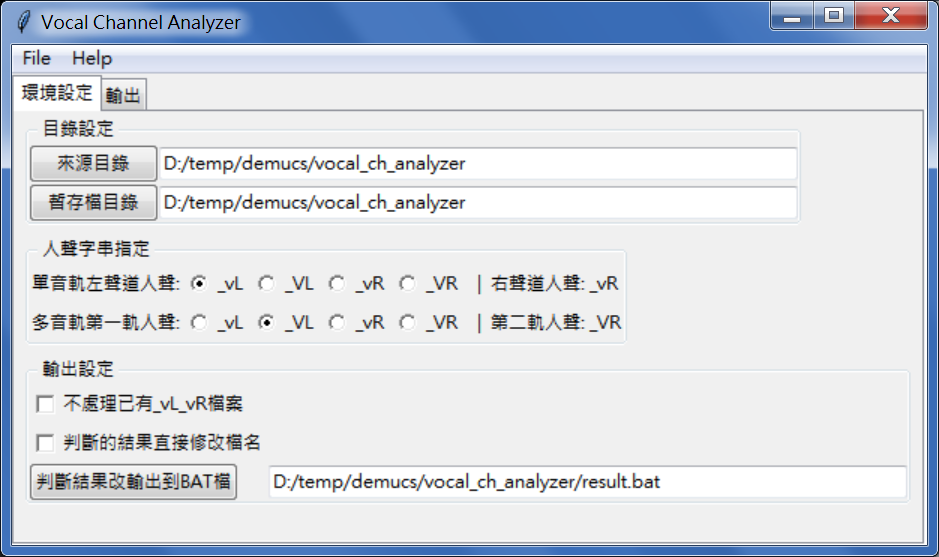
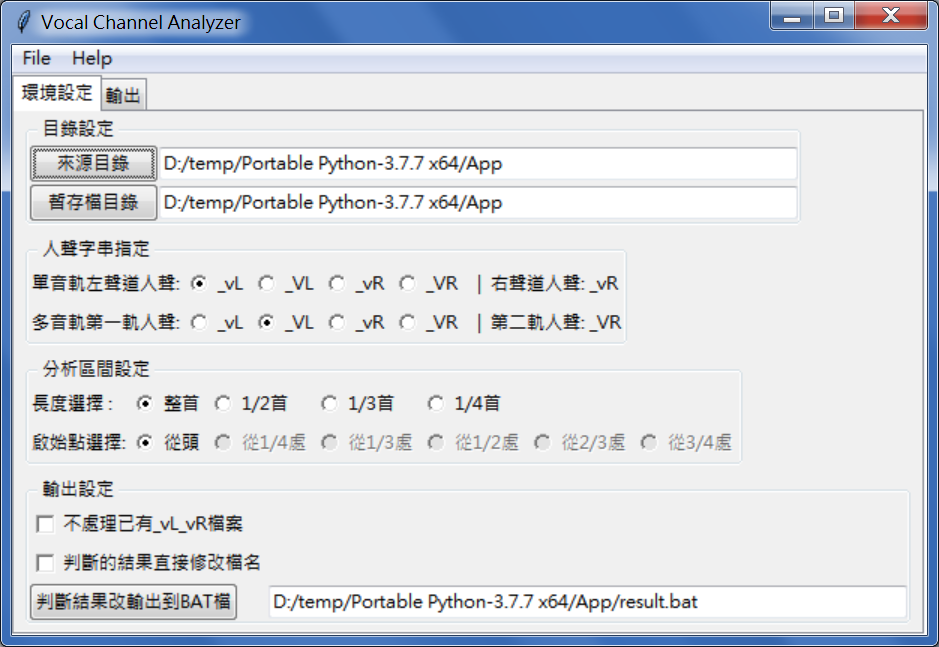
Add files via upload

Changed region(s): [[0.0, 0.0, 1.0, 0.3968], [0.0, 0.4273, 1.0, 1.0], [0.9883, 0.2747, 1.0, 0.3052]]

diff --git a/analyzer_core.py b/analyzer_core.py
@@ -3,6 +3,8 @@
 # This module provide the analysis core of the voice channel
 # 
 # version : 1.0.0  2020/09/15
+# version : 1.1.0  2002/09/16
+#           add support for audio clipping
 
 import os
 import subprocess
@@ -16,85 +18,57 @@ mediainfocmd="mediainfo.exe"
 spleetercmd="python\python.exe -m spleeter separate "
 
 def read_mediainfo(filename):
-    cmdlist=mediainfocmd+' "'+filename+'"'
+    cmdlist=mediainfocmd+' --output=General;%AudioCount% "'+filename+'"'
     try:
         result = subprocess.check_output(cmdlist, shell=True, stderr=subprocess.STDOUT)
     except subprocess.CalledProcessError as e:
-        return [0, "", ""]
+        return [0, 0]
     
-    result=str(result).replace('\\n','\n').replace('\\r','\r')
-    
-    s_pos = str(result).find('\r\nVideo')
-    n_pos = str(result).find('Format', s_pos)
-    m_pos = str(result).find(':', n_pos)
-    p_pos = str(result).find('\n', m_pos)
+    result=str(result,'utf-8').strip()
     try:
-        vid_format = str(result)[m_pos+1:p_pos].strip()
+        audio_no = int(result)
     except:
-        return[0, '', 0, '', 0]     # error condition
+        return[0, 0]
     
-    if vid_format=='MPEG Video':
-        n_pos = str(result).find('Format version', s_pos)
-        m_pos = str(result).find(':', n_pos)
-        p_pos = str(result).find('\n', m_pos)
-        ver_format = str(result)[m_pos+1:p_pos].strip()
-        if ver_format=='Version 1':
-            mpeg_format=1   # MPEG1
-        else:
-            mpeg_format=2   # MPEG2
-    else:
-        mpeg_format=0    # not MPEG format
-
-    s_pos = str(result).find('Scan type')
-    n_pos = str(result).find(':', s_pos)
-    m_pos = str(result).find('\n',n_pos+1)
+    cmdlist=mediainfocmd+' --output=General;%Duration% "'+filename+'"'
     try:
-        scan_type=str(result)[n_pos+1:m_pos].strip()
-    except:
-        return[0, '', 0, '', 0]     # error condition
+        result = subprocess.check_output(cmdlist, shell=True, stderr=subprocess.STDOUT)
+    except subprocess.CalledProcessError as e:
+        return [0, 0]
     
-    audio_no = str(result).count('\r\nAudio')
-    
-    s_pos = str(result).find('Audio', m_pos)
-    n_pos = str(result).find('Format', s_pos)
-    m_pos = str(result).find(':', n_pos)
-    p_pos = str(result).find('\n', m_pos)
+    result=str(result,'utf-8').strip()   # return stream length in ms
     try:
-        audio_format=str(result)[m_pos+1:p_pos].strip()
+        audio_len = int(result)/1000     # turn into sec
     except:
-        return[0, '', 0, '', 0]     # error condition
+        return [0, 0]
     
-    s_pos = str(result).find('Channel', p_pos)
-    n_pos = str(result).find(':', s_pos)
-    m_pos = str(result).find('ch', n_pos)
-    try:
-        channel_no=int(str(result)[n_pos+1:m_pos-1].strip())
-    except:
-        return[0, '', 0, '', 0]    # error condition
-    # return parameters :
-    # scan_type : "Progressive" or "Interlaced"
+    # return values :
     # audio_no : audio streams in the file
-    # audio_format : "AC-3" "mp2" "mp3" or "PCM"
-    # channel_no : audio channel number in audio stream
-    return [mpeg_format, scan_type, audio_no, audio_format, channel_no]
+    # audio_len : stream length in seconds
+    return [audio_no, audio_len]
 
 
-def generate_audio_files(infile, audio_no, tmp_dir):
-    if (audio_no==1):  # has only 1 audio
-        cmdlist=ffmpegcmd+' -i "'+infile+\
+def generate_audio_files(infile, audio_no, tmp_dir, c_start, c_duration):
+    if (c_start<0) or (c_duration<0):
+        clip_str=''     # whole song without clipping
+    else:
+        clip_str=" -ss "+str(c_start)+" -t "+str(c_duration)
+
+    if (audio_no==1):  # has only 1 audio stream, turn L/R into CH0, CH1 wav
+        cmdlist=ffmpegcmd+clip_str+' -i "'+infile+\
             '" -filter_complex "[0:a]pan=stereo|c0=c0|c1=c0[out]" -map "[out]" -y "'+\
             tmp_dir+'/ch0.wav"'
         run_cmd(cmdlist, "error on generate ch0.wav :"+cmdlist)
-        cmdlist=ffmpegcmd+' -i "'+infile+\
+        cmdlist=ffmpegcmd+clip_str+' -i "'+infile+\
             '" -filter_complex "[0:a]pan=stereo|c0=c1|c1=c1[out]" -map "[out]" -y "'+\
             tmp_dir+'/ch1.wav"'
         run_cmd(cmdlist, "error on generate ch1.wav :"+cmdlist)
     else:
-        cmdlist=ffmpegcmd+' -i "'+infile+\
+        cmdlist=ffmpegcmd+clip_str+' -i "'+infile+\
             '" -filter_complex "[0:a:0]pan=stereo|c0=FL|c1=FR[out]" -map "[out]" -y "'+\
             tmp_dir+'/ch0.wav"'
         run_cmd(cmdlist, "error on generate ch0.wav :"+cmdlist)
-        cmdlist=ffmpegcmd+' -i "'+infile+\
+        cmdlist=ffmpegcmd+clip_str+' -i "'+infile+\
             '" -filter_complex "[0:a:1]pan=stereo|c0=FL|c1=FR[out]" -map "[out]" -y "'+\
             tmp_dir+'/ch1.wav"'
         run_cmd(cmdlist, "error on generate ch1.wav :"+cmdlist)
@@ -168,18 +142,25 @@ def remove_file(infile):
     run_cmd(cmdlist, "error on remove file:"+cmdlist)
 
 # analyze the vocal channel
-# fullpath : the source file path
-# tmpdir : directory for audio temp files during analysis
-# vl_str : _VL_VR string 
+#   fullpath : the source file path
+#   tmpdir : directory for audio temp files during analysis
+#   vl_str : _VL_VR string 
+#   clip_start : clip starting point
+#   clip_duration : duration of the clip
 # output : '' when error, _VL_VR string if analysis ok
-def vocal_analyze(fullpath, tmpdir, vl_str):
-#    fullpath=os.path.join(dirpath, fileitem)
-#    filename, fileext = os.path.splitext(fileitem)
-    [mpeg_format, interlace_str, audio_no, audio_format, audio_ch]=read_mediainfo(fullpath)
+def vocal_analyze(fullpath, tmpdir, vl_str, clip_start, clip_duration):
+    [audio_no, audio_len]=read_mediainfo(fullpath)
     if audio_no==0:
         print("no audio stream in ",fullpath)
         return ''
-    generate_audio_files(fullpath, audio_no, tmpdir)
+    c_start = int(audio_len * clip_start)
+    c_duration = int(audio_len*clip_duration)
+    if (c_start+c_duration)>audio_len:    # sanity check
+        c_duration = audio_len - c_start
+    if (clip_start==0.0) and (clip_duration==1.0):  # whole song case
+        c_start=-1
+        c_duration=-1
+    generate_audio_files(fullpath, audio_no, tmpdir, c_start, c_duration)
     [ch0_v_gn, ch1_v_gn] = calculate_vocal_gain(tmpdir)
     remove_tmp_dir_audiofiles(tmpdir)
     if (ch0_v_gn==0.0) or (ch1_v_gn==0.0):

diff --git a/main_ui.py b/main_ui.py
@@ -2,6 +2,8 @@
 #  main_ui.py
 #  The main UI part for vocal channel analyzer
 #  version : 1.0.0   2020/09/15
+#  version : 1.1.0   2020/09/16
+#            add feature to choose a clip for analysis to shorten required time
 #======================
 # imports
 #======================
@@ -140,9 +142,56 @@ multiR_Label.grid(column=5, row=3, sticky=tk.W)
 monoR_Label.configure(text='  |  右聲道人聲: '+VL_STR[monoVar.get()+multiVar.get()*4][1])
 multiR_Label.configure(text='  |  第二軌人聲: '+VL_STR[monoVar.get()+multiVar.get()*4][3])
 
+clip_duration_strs=["整首", "1/2首", "1/3首", "1/4首"]
+clip_duration_list=[1.0, 0.5, 0.3333, 0.25]
+clip_start_strs=["從頭", "從1/4處", "從1/3處","從1/2處", "從2/3處", "從3/4處"]
+clip_start_list=[0.0, 0.25, 0.3333, 0.5, 0.6666, 0.75]
+
+# clip setting
+area_clip = ttk.LabelFrame(tab1, text=' 分析區間設定 ')
+area_clip.grid(column=0, row=3, padx=8, pady=4, sticky=tk.W)
+
+def radClipDuration():
+    global clip_duration_val
+    clip_duration_Sel=clip_durationVar.get() 
+    clip_duration_val=clip_duration_list[clip_duration_Sel]
+    for col in range(6):
+        if clip_duration_val+clip_start_list[col]<1.01:
+            startRad[col].configure(state='normal')
+        else:
+            startRad[col].configure(state='disabled')
+    
+def radClipStart():
+    global clip_start_val
+    clip_start_Sel = clip_startVar.get()
+    clip_start_val = clip_start_list[clip_start_Sel]
+
+clip_start_val = clip_start_list[0]
+clip_duration_val = clip_duration_list[0]
+
+ttk.Label(area_clip, text="長度選擇 :").grid(column=0, row=0, sticky=tk.W)
+clip_durationVar = tk.IntVar()
+clip_durationVar.set(0)
+for col in range(4):
+    curRad = tk.Radiobutton(area_clip, text=clip_duration_strs[col], variable=clip_durationVar,
+                            value=col, command=radClipDuration, state='normal')
+    curRad.grid(column=col+1, row=0, sticky=tk.W)
+    
+ttk.Label(area_clip, text="啟始點選擇:").grid(column=0, row=1, sticky=tk.W)
+clip_startVar=tk.IntVar()
+
+startRad=list()
+for col in range(6):
+    startRad.append( tk.Radiobutton(area_clip, text=clip_start_strs[col], variable=clip_startVar,
+                            value=col, command=radClipStart, state='disable'))
+    startRad[col].grid(column=col+1, row=1, sticky=tk.W)
+startRad[0].configure(state='normal') 
+clip_startVar.set(0)
+ 
 # output setting
 area_output = ttk.LabelFrame(tab1, text=' 輸出設定 ')
-area_output.grid(column=0, row=3, padx=8, pady=4, sticky=tk.W)
+area_output.grid(column=0, row=4, padx=8, pady=4, sticky=tk.W)
+
 
 SkipFileEn = tk.IntVar()
 SkipFilecb = tk.Checkbutton(area_output, text="不處理已有_vL_vR檔案", variable=SkipFileEn)
@@ -210,6 +259,8 @@ def StartCMD():
     FSkipFileEn=SkipFileEn.get()
     Fvl_str=VL_STR[monoVar.get()+multiVar.get()*4]
     FModFileEn=ModFileEn.get()
+    Fclip_start=clip_start_val
+    Fclip_duration=clip_duration_val
     if FModFileEn:
         Foutf_hd=None
     else:
@@ -259,7 +310,7 @@ def StartCMD():
                                 print("REM skipping "+fileitem+'\n', file=Foutf_hd)
                             continue
                     progressbar_update('processing '+fileitem, cur_item*100/total_items)
-                    result=analyzer_core.vocal_analyze(fullpath, Ftmpdir, Fvl_str)
+                    result=analyzer_core.vocal_analyze(fullpath, Ftmpdir, Fvl_str, Fclip_start, Fclip_duration)
                     if result=='':
                         logarea.insert(tk.END, 'error on "'+fileitem+'"\n')
                     else:
@@ -322,7 +373,7 @@ ttk.Label(area_status, text="狀態 :").grid(column=0, row=0, sticky=tk.W)
 status_line_l=ttk.Label(area_status, text='idle')
 status_line_l.grid(column=1, row=0, sticky=tk.W)
 ttk.Label(area_status, text="進度 :").grid(column=0, row=1, sticky=tk.W)
-progress_b = ttk.Progressbar(area_status, orient='horizontal', length=300, mode='determinate')
+progress_b = ttk.Progressbar(area_status, orient='horizontal', length=540, mode='determinate')
 progress_b.grid(column=1, row=1)
 
 #######################################
@@ -365,6 +416,12 @@ def help_Box():
                  '  建議單音軌左聲道為人聲, 使用字串 _vL, 多重音軌第一軌人聲, 使用 _VL\n'+\
                  '  就可以用字串來辨別是單音軌或多音軌,\n'+\
                  '  若有特殊原因需要更改定義, 請自行勾選不同字串\n\n'+\
+                 '   +--------------+\n'+\
+                 '     分析區間設定  \n'+\
+                 '   +--------------+\n'+\
+                 '  人聲分離過程, 需要花很多時間, 因此只要分析歌曲其中一部分,\n'+\
+                 '  裏頭有包含人聲部分, 就可以正確判斷出人聲的音軌,\n'+\
+                 '  分析區間設定, 用來設定要拿歌曲那一個區間做分析\n\n'+\
                  '   +----------+\n'+\
                  '     輸出設定 \n'+\
                  '   +----------+\n'+\
